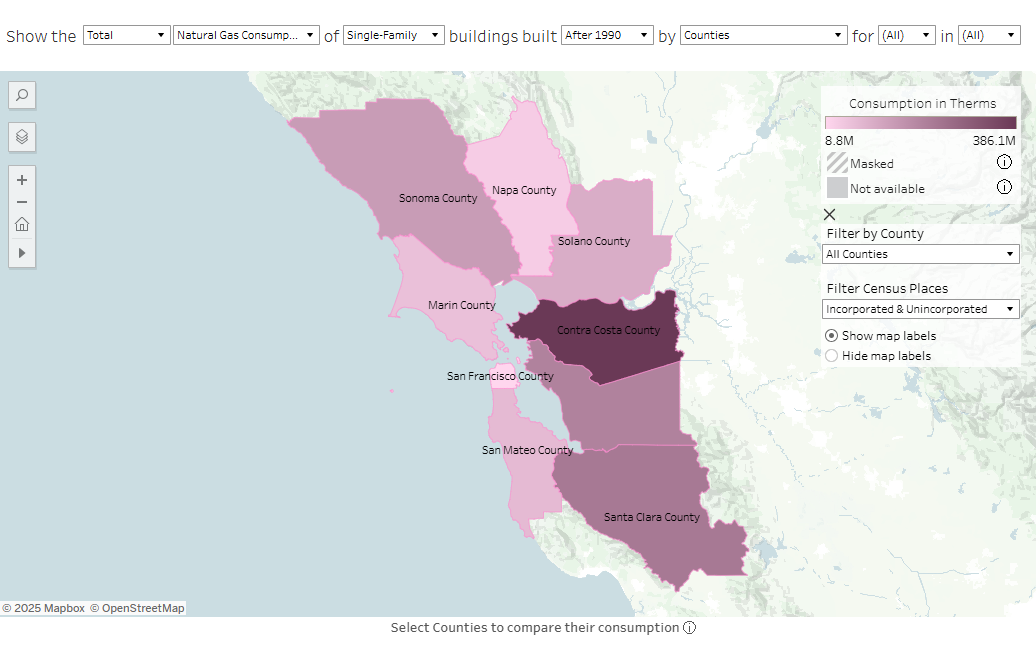
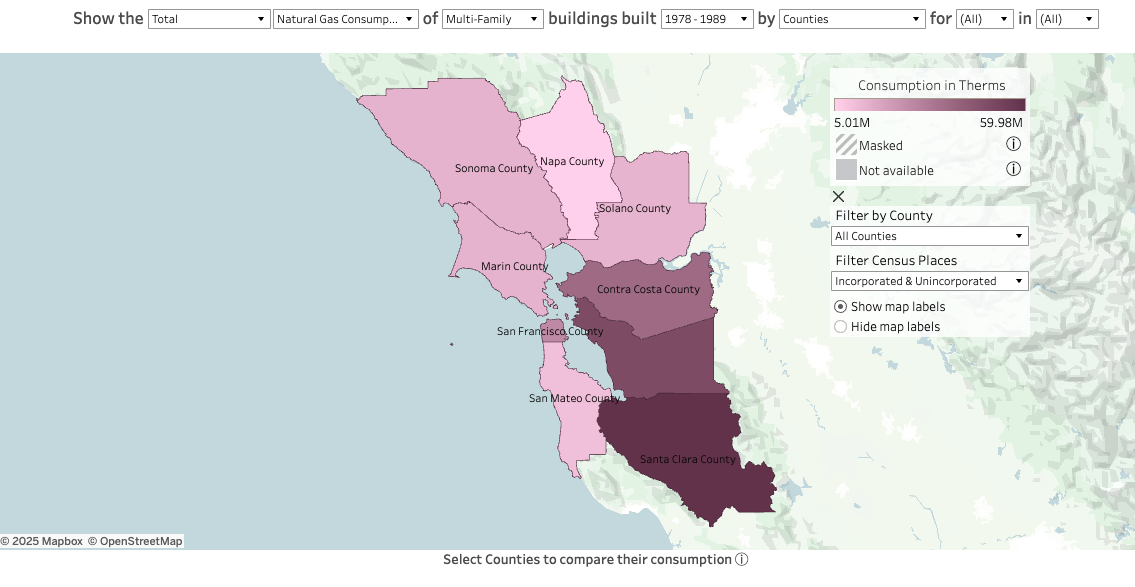
Update static files

Changed region(s): [[0.0, 0.0, 1.0, 0.9813], [0.5869, 0.184, 0.6486, 0.2147], [0.7722, 0.6133, 0.8031, 0.644]]

diff --git a/about.md b/about.md
@@ -3,7 +3,7 @@ layout: page_
 title: About
 ---
 
-The Bay Area Energy Atlas is a database of building energy consumption that links PG&E metered energy consumption to building characteristics, sociodemographic data, and other significant attributes. This website is a public data resource that displays spatially aggregated annual energy consumption statistics for the nine Bay Area counties.
+The Bay Area Energy Atlas is a database of building energy consumption that links PG\&E metered energy consumption to building characteristics, sociodemographic data, and other significant attributes. This website is a public data resource that displays spatially aggregated monthly energy consumption statistics for the nine Bay Area counties.
 
 The ability to associate energy consumption with buildings and population information allows users to ask deeper questions about how energy is being used. For example, what types of buildings in Alameda County have the highest energy intensity per unit area? How does energy consumption vary spatially, by population density, by income level, or by industry? How does energy consumption compare between single family homes in coastal Half Moon Bay and inland Vacaville? These types of fundamental questions are impossible to answer without a spatial database that merges these datasets together.
 
@@ -17,13 +17,13 @@ The Energy Atlas is developed by the [California Center for Sustainable Communit
 
 The maps visually display energy consumption across counties, census places, zip code tabulation areas, and census tract, as well as by building type, and type of energy. Users can view data as total consumption, median consumption, median per square foot consumption and per capita consumption. Three of the map pages provide another element of detail: building size, building vintage, and residential income (area median income). Each consumption value is calculated from individual meters and aggregated to protect customer privacy. Some areas are masked to protect customer privacy.
 
-![Screenshot of the Building Type map view set to show the total natural gas consumption of buildings categorized as Single-Family by Counties for all months and all years.]({{ "/assets/images/tutorial/tutorial-bld-map-page.png" | relative_url }}){: title="Energy consumption by Building Type map view"}
+![Screenshot of the Building Type map view set to show the total natural gas consumption of buildings categorized as Multi-Family by Counties for all months and all years.]({{ "/assets/images/tutorial/tutorial-bld-map-page.png" | relative_url }}){: title="Energy consumption by Building Type map view"}
 
 ### Profiles
 
 The Profiles page provides detailed information and comparisons for each geography level including longitudinal data from 2015-2021 where available. Users can download data specific to the filtered Profiles page view through the controls in the upper right-hand corner of the Profile page, while the complete data will also be available for download through the Data Download page.
 
-![Screenshot of the very top of the Profiles page, showing the filter selection bar as well as the first bar graph, which displayed the summed total of the selected counties.]({{ "/assets/images/tutorial/tutorial-profiles-page.png" | relative_url }}){: title="Profile view summing the consumption of three counties."}
+![Screenshot of the very top of the Profiles page, showing the filter selection bar, the map, and the data summaries of the selected geographies.\]({{ "/assets/images/tutorial/tutorial-profiles-page.png" | relative_url }}){: title="Profile view summing the consumption of three counties."}
 
 ### Findings
 
@@ -53,4 +53,4 @@ The combination of data provides insights into relationships essential to the de
 
 ## About the CCSC
 
-The mission of the California Center for Sustainable Communities, founded and directed by Dr. Stephanie Pincetl, is to create actionable science that improves the sustainability of urban systems. It aims to provide intellectual and conceptual frameworks for new synthesis and thinking in sustainability research for all Californians. For cities to remain habitable, profound changes need to occur both in cities themselves and in the ways they impact the surrounding landscapes and hinterlands. Achieving progress toward sustainability requires maintaining and improving both human and ecosystem well-being. Our challenge is to make cities into centers of sustainability in the ways they develop and redevelop beyond the next century.
+The mission of the California Center for Sustainable Communities at UCLA, founded and directed by Dr. Stephanie Pincetl, is to create actionable science that improves the sustainability of urban systems. It aims to provide intellectual and conceptual frameworks for new synthesis and thinking in sustainability research for all Californians. For cities to remain habitable, profound changes need to occur both in cities themselves and in the ways they impact the surrounding landscapes and hinterlands. Achieving progress toward sustainability requires maintaining and improving both human and ecosystem well-being. Our challenge is to make cities into centers of sustainability in the ways they develop and redevelop beyond the next century.

diff --git a/faq.md b/faq.md
@@ -15,15 +15,15 @@ We believe that energy data should be more transparent and used to create data-d
 ## How can I download Atlas data?
 
 The complete aggregated data is available to download in CSV format on the Data Download page. In addition, users can download data specific to a certain view using the data download options available on the Profiles page.
-For more details, visit the Tutorial page.
+For more details, visit the Tutorial.
 
 * NOTE: When downloading a specific view to the Crosstab format directly from the Profiles page, the file will download consistent with the underlying construction of the atlas visualizations. That means the format of the file may require further organization by the user in order to remove elements necessary for the visualizations and perhaps unnecessary for use in a spreadsheet.
 
 ## Can I access total consumption values across multiple geographies?
 
-Total consumption values are currently only available in the Profiles page when more than one geography is selected. Those totals, however, represent the sum of the pre-masked data.
+Total consumption values are currently only available in the Profiles page when more than one geography is selected and the “aggregate” option is chosen. Those totals, however, represent the sum of the pre-masked data.
 
-In an abundance of caution, totals are currently unavailable so we can ensure adherence to the 15/15 Rule and provide more detailed aggregations of energy by use type, year built, and other important attributes unique to the Atlas.
+In an abundance of caution, totals are currently unavailable so we can ensure adherence to the 15/15 Rule and provide more detailed aggregations of energy by use type, year built, and other important attributes unique to the Atlas. When an aggregation includes an instance of masked data it will be marked with an “x” to indicate that it does not include all possible consumption.
 
 Data privacy masking rules, as currently written, create conflicting masking limitations based on sector and the location of high consuming customers. In a majority of cases, nonresidential (especially industrial) consumption is masked due to violating the 15/15 Rule. If a combined total is included, the smaller sub-use types are more highly masked to prevent the possibility of reverse calculating a masked value. To ensure that no individual use type can ever be reverse calculated from the total, additional masking of more sub-use types would be necessary.
 
@@ -31,7 +31,7 @@ Because the goal of this tool is to allow users to explore more energy data in c
 
 ## Can I access the underlying data behind the Atlas?
 
-The short answer is no. Users currently only have access to the aggregated data. The underlying energy data is confidential to protect customer privacy, and was shared with UCLA researchers through a Non-Disclosure Agreement.
+The short answer is no. Users currently only have access to the pre-aggregated data. The underlying energy data is confidential to protect customer privacy, and was shared with UCLA researchers through a Non-Disclosure Agreement.
 
 ## Why is some data masked (and what does that mean)?
 

diff --git a/methods.md b/methods.md
@@ -183,11 +183,9 @@ Energy consumption billing data is organized around billing dates that are speci
 
 ### Building Use Types
 
-As discussed previously, a primary unit of analysis in this research is the megaparcel, a parcel layer whose attributes have been dissolved based upon its geometry. Each megaparcel is assigned a building type according to its use and construction design. The building type categories are based on use codes as assigned by the County Assessor.
+A primary unit of analysis in this research is the *megaparcel*, a parcel layer whose attributes have been dissolved based upon its geometry. Each megaparcel is assigned a use type according to its use and construction design. The building use type categories are based on use codes as assigned by the County Assessor.
 
 CCSC researchers reclassified building types into 7 main categories of megaparcels (which include multiple overlapping parcels that are co-located or “stacked” within the same building, such as condominiums).
-
-For residential parcels which did not clearly fall within the single family and multi-family categories, a new category of “residential other” was created, to include parcels for mobile homes and trailer parks, rural residential, boarding houses, manufactured homes, and unknown residential use codes that did not clearly fall under the single family or multi-family category. All three of these major residential use types are combined together to form a “residential” total reported for each geography. If a parcel use code does not fit into one of the pre-set categories, it is placed into the “other” category, which spans a diverse range of uses including vacant land, agriculture, and miscellaneous others.
 
 ### Security
 
